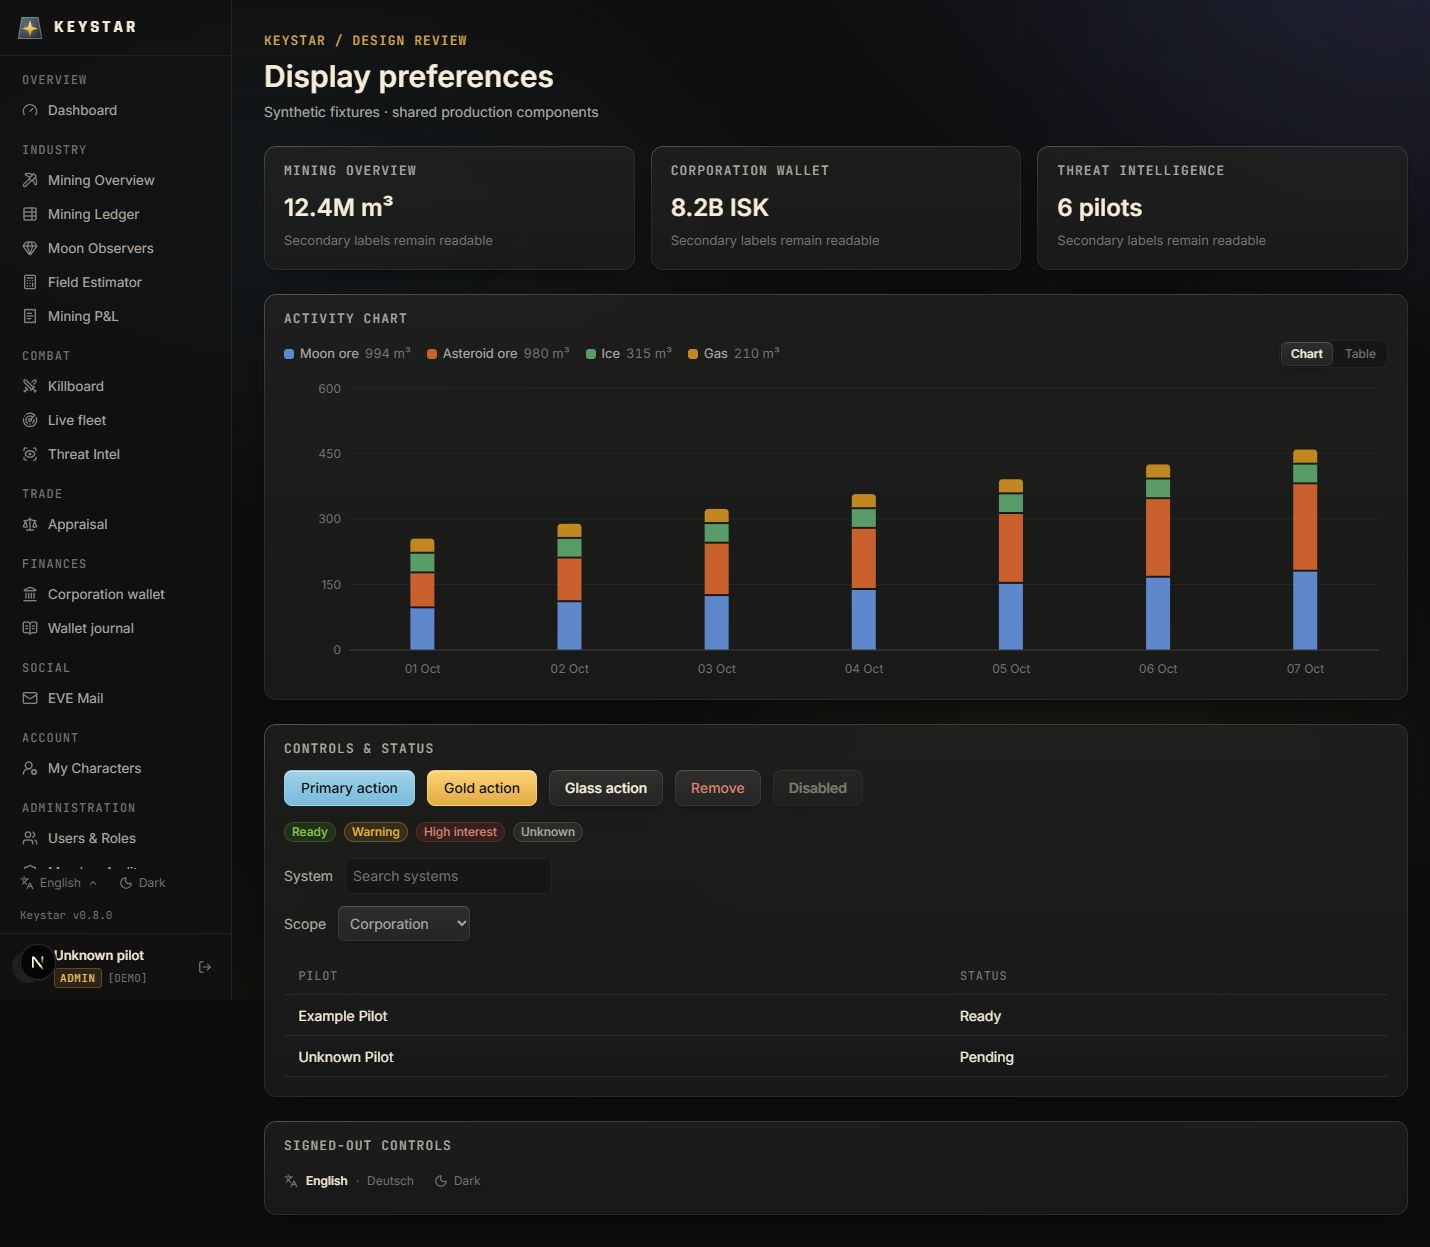
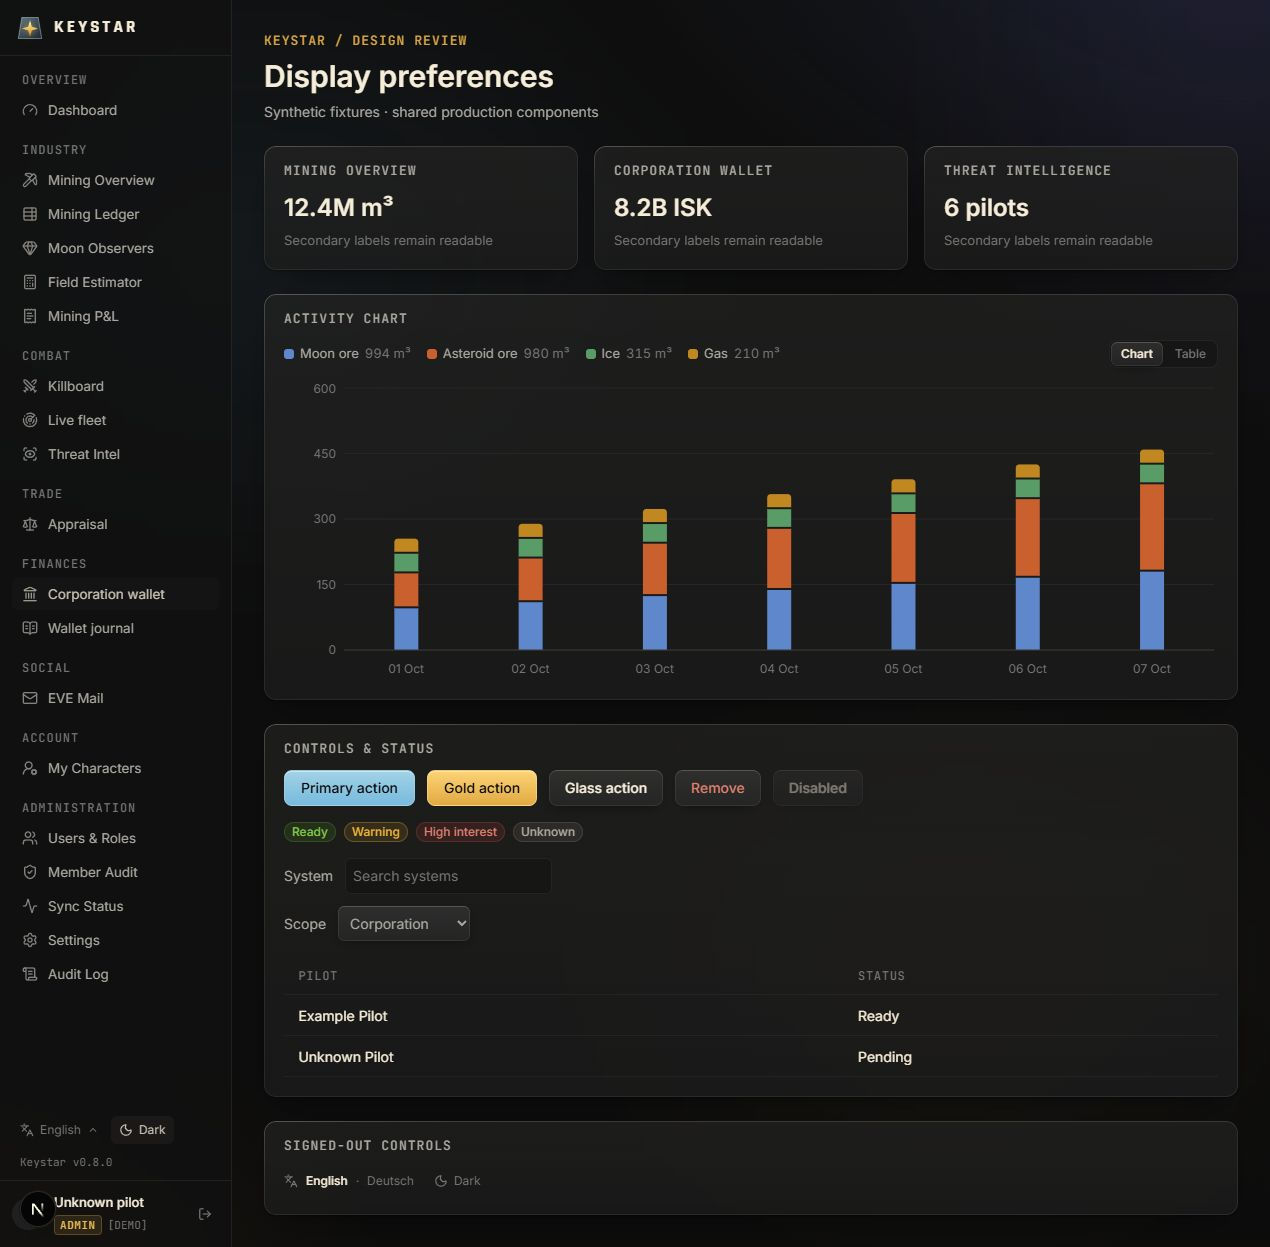
fix: extend sidebar surface and preserve dark theme colors

diff --git a/src/components/shell/sidebar.tsx b/src/components/shell/sidebar.tsx
@@ -27,65 +27,67 @@ export async function Sidebar({ user, corpTicker }: { user: CurrentUser; corpTic
   const { t } = await getI18n();
 
   return (
-    <aside className="sticky top-0 flex h-screen w-[232px] shrink-0 flex-col border-r border-surface-contrast/[0.07] bg-space-900/70 backdrop-blur-xl">
-      <Link href="/" className="flex h-14 items-center gap-2.5 border-b border-surface-contrast/[0.07] px-4">
-        <KeystarMark className="size-7" />
-        <span className="font-display text-[1.05rem] font-bold tracking-[0.2em] text-ink">KEYSTAR</span>
-      </Link>
-      <nav className="flex-1 space-y-4 overflow-y-auto px-3 py-4" aria-label={t.shell.mainNav}>
-        {sections.map((section) => (
-          <div key={section.id} className="group">
-            <div className="eve-label px-2.5 pb-1.5 text-2xs text-ink-3 group-has-[[aria-current=page]]:text-[color-mix(in_srgb,var(--section)_75%,var(--color-ink-3))]">
-              {section.label(t)}
+    <aside className="w-[232px] shrink-0 self-stretch border-r border-surface-contrast/[0.07] bg-space-900/70 backdrop-blur-xl">
+      <div className="sticky top-0 flex h-dvh flex-col">
+        <Link href="/" className="flex h-14 shrink-0 items-center gap-2.5 border-b border-surface-contrast/[0.07] px-4">
+          <KeystarMark className="size-7" />
+          <span className="font-display text-[1.05rem] font-bold tracking-[0.2em] text-ink">KEYSTAR</span>
+        </Link>
+        <nav className="min-h-0 flex-1 space-y-4 overflow-y-auto px-3 py-4" aria-label={t.shell.mainNav}>
+          {sections.map((section) => (
+            <div key={section.id} className="group">
+              <div className="eve-label px-2.5 pb-1.5 text-2xs text-ink-3 group-has-[[aria-current=page]]:text-[color-mix(in_srgb,var(--section)_75%,var(--color-ink-3))]">
+                {section.label(t)}
+              </div>
+              <ul className="space-y-0.5">
+                {section.items.map((item) => (
+                  <li key={item.href}>
+                    <NavLink href={item.href} exact={hasNested(item.href)}>
+                      <item.icon className="size-4 shrink-0 opacity-75" aria-hidden />
+                      {item.label(t)}
+                    </NavLink>
+                  </li>
+                ))}
+              </ul>
             </div>
-            <ul className="space-y-0.5">
-              {section.items.map((item) => (
-                <li key={item.href}>
-                  <NavLink href={item.href} exact={hasNested(item.href)}>
-                    <item.icon className="size-4 shrink-0 opacity-75" aria-hidden />
-                    {item.label(t)}
-                  </NavLink>
-                </li>
-              ))}
-            </ul>
+          ))}
+        </nav>
+        <div className="shrink-0 space-y-1 px-3 pb-2">
+          <div className="flex flex-wrap items-center gap-1">
+            <LanguageSwitcher />
+            <ThemeSwitcher />
           </div>
-        ))}
-      </nav>
-      <div className="space-y-1 px-3 pb-2">
-        <div className="flex flex-wrap items-center gap-1">
-          <LanguageSwitcher />
-          <ThemeSwitcher />
+          <a
+            href={`${env().SOURCE_URL}/releases`}
+            target="_blank"
+            rel="noopener noreferrer"
+            className="px-2 font-mono text-3xs whitespace-nowrap text-ink-3 hover:text-ink-2"
+            title={t.shell.releaseNotes}
+          >
+            Keystar v{KEYSTAR_VERSION}
+          </a>
         </div>
-        <a
-          href={`${env().SOURCE_URL}/releases`}
-          target="_blank"
-          rel="noopener noreferrer"
-          className="px-2 font-mono text-3xs whitespace-nowrap text-ink-3 hover:text-ink-2"
-          title={t.shell.releaseNotes}
-        >
-          Keystar v{KEYSTAR_VERSION}
-        </a>
-      </div>
-      <div className="border-t border-surface-contrast/[0.07] p-3">
-        <div className="flex items-center gap-2.5">
-          {user.main ? <Portrait id={user.main.characterId} size={32} /> : <div className="size-8 rounded-full bg-space-700" />}
-          <div className="min-w-0 flex-1">
-            <div className="truncate text-[0.82rem] font-medium">{user.main?.name ?? t.shell.unknownPilot}</div>
-            <div className="mt-0.5 flex items-center gap-1.5">
-              <RoleBadge role={user.role} />
-              {corpTicker && <span className="font-mono text-3xs text-ink-3">[{corpTicker}]</span>}
+        <div className="shrink-0 border-t border-surface-contrast/[0.07] p-3">
+          <div className="flex items-center gap-2.5">
+            {user.main ? <Portrait id={user.main.characterId} size={32} /> : <div className="size-8 rounded-full bg-space-700" />}
+            <div className="min-w-0 flex-1">
+              <div className="truncate text-[0.82rem] font-medium">{user.main?.name ?? t.shell.unknownPilot}</div>
+              <div className="mt-0.5 flex items-center gap-1.5">
+                <RoleBadge role={user.role} />
+                {corpTicker && <span className="font-mono text-3xs text-ink-3">[{corpTicker}]</span>}
+              </div>
             </div>
+            <form action="/auth/logout" method="post">
+              <button
+                type="submit"
+                title={t.shell.signOut}
+                aria-label={t.shell.signOut}
+                className="grid size-7 place-items-center rounded-md text-ink-3 transition hover:bg-surface-contrast/[0.06] hover:text-ink"
+              >
+                <LogOut className="size-3.5" aria-hidden />
+              </button>
+            </form>
           </div>
-          <form action="/auth/logout" method="post">
-            <button
-              type="submit"
-              title={t.shell.signOut}
-              aria-label={t.shell.signOut}
-              className="grid size-7 place-items-center rounded-md text-ink-3 transition hover:bg-surface-contrast/[0.06] hover:text-ink"
-            >
-              <LogOut className="size-3.5" aria-hidden />
-            </button>
-          </form>
         </div>
       </div>
     </aside>

diff --git a/src/app/globals.css b/src/app/globals.css
@@ -316,12 +316,12 @@ select option:disabled {
   color: var(--color-ink-3);
   text-align: left;
   padding: 0.6rem 0.9rem;
-  border-bottom: 1px solid var(--hairline);
+  border-bottom: 1px solid rgba(255, 255, 255, 0.045);
   white-space: nowrap;
 }
 .ks-table td {
   padding: 0.6rem 0.9rem;
-  border-bottom: 1px solid var(--hairline);
+  border-bottom: 1px solid rgba(255, 255, 255, 0.045);
   vertical-align: middle;
 }
 .ks-table tbody tr {
@@ -339,7 +339,7 @@ select option:disabled {
 /* Scrollbars that fit the theme. */
 * {
   scrollbar-width: thin;
-  scrollbar-color: rgba(var(--surface-rgb), 0.3) transparent;
+  scrollbar-color: rgba(255, 255, 255, 0.15) transparent;
 }
 
 /* Keyboard focus that is always visible on glass. */
@@ -417,3 +417,6 @@ select option:disabled {
 [data-theme="light"] .dot-grid {
   background-image: radial-gradient(rgba(24, 35, 50, 0.09) 1px, transparent 1px);
 }
+
+[data-theme="light"] .ks-table td { border-bottom-color: var(--hairline); }
+[data-theme="light"] * { scrollbar-color: rgba(24, 35, 50, 0.3) transparent; }

diff --git a/CHANGELOG.md b/CHANGELOG.md
@@ -12,6 +12,11 @@ version (0.2.0 → 0.2.1). Releasing is described in [docs/releasing.md](docs/re
   and setup pages. The preference is remembered for a year and applied before rendering, with matching glass
   surfaces, readable status colours, controls, tables, chart chrome, and keyboard focus. Dark remains the default.
 
+### Fixed
+
+- Extend the sidebar surface to the bottom of long pages while keeping navigation and footer controls in the viewport.
+- Preserve the original dark-mode table separators and scrollbar colours when adding light mode.
+
 ## [0.8.0] - 2026-10-03
 
 ### Added
